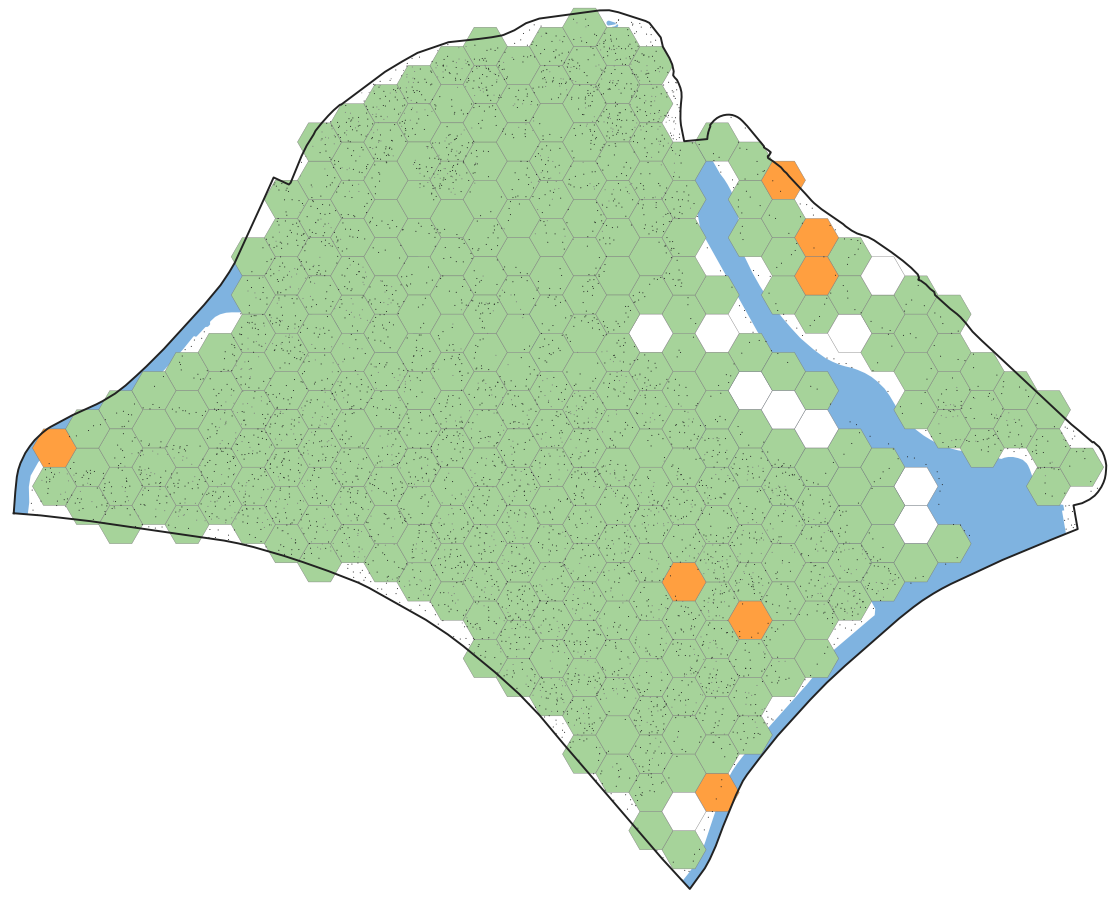
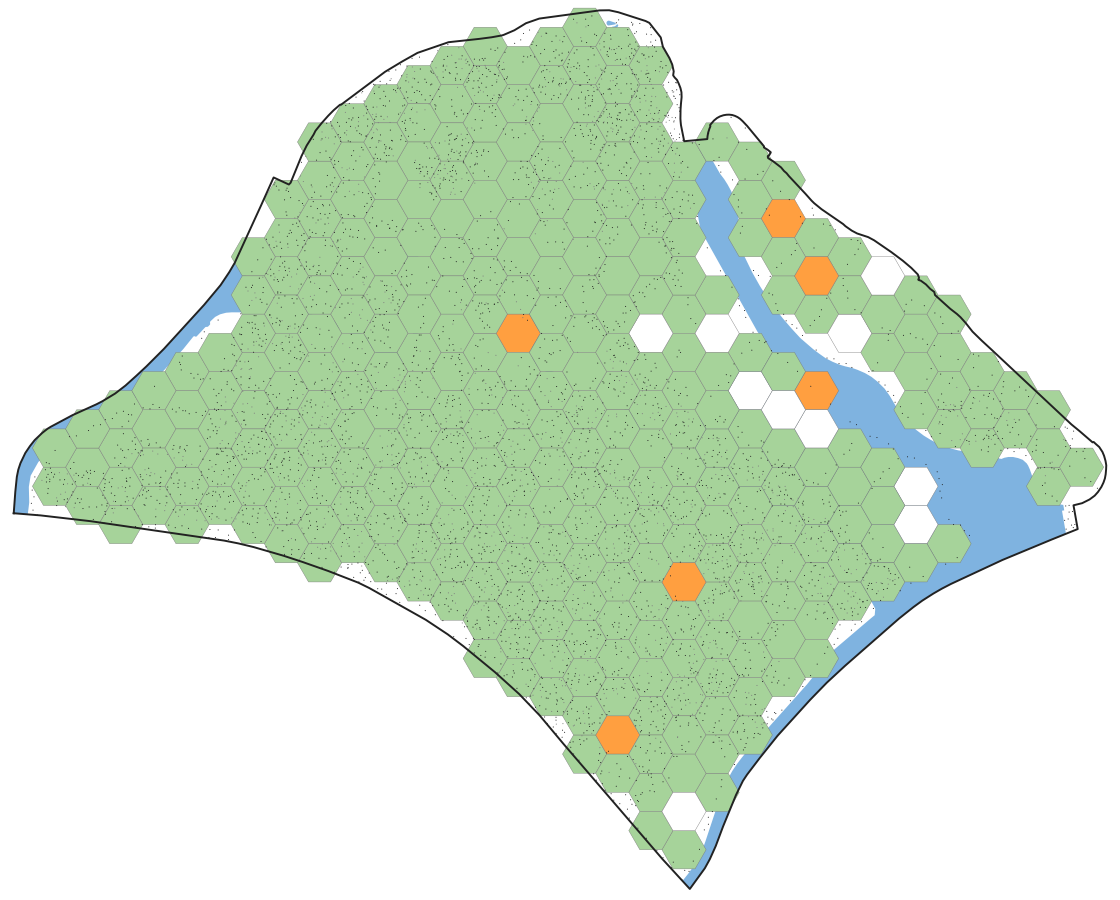
J1: street-light relay poles on the real maps; poles only where needed repair most of the cell grid (item 357)
Claude-Session: https://claude.ai/code/session_01TX4UxcduhhuEtNmkz78BAZ

diff --git a/paper/j1/analysis/urban_nodes.py b/paper/j1/analysis/urban_nodes.py
@@ -18,6 +18,13 @@ Cells: flat-top hexagons, R = 100 m. Per variant: land cells; empty cells (no ma
 split (no usable path inside the cell); adjacent pairs of non-empty cells without a usable gateway link; battery nodes
 with no usable link to a mains node of their cell; components of the cell graph (cells joined by gateway links) and the
 share of non-empty cells in the largest one.
+Street-light relays (chatlog item 357): --poles SPACING adds mains relay nodes on street-light poles every SPACING m along
+the streets, 3 m to the side, on top of the devices above. Two placements are reported with the wall channel: on every
+street ("all"), and only in the cells that need them ("needed": cells that are empty, split inside, or miss a gateway to
+a neighbour in the wall channel without poles). Shadowing is fixed per node pair (a hash of the two node ids), so adding
+poles keeps the draws of the existing pairs.
+The last column counts the mains nodes cut off from the largest group of their own cell, and the share of them standing
+on buildings (wall devices behind a building, as opposed to street nodes and poles).
 Writes FIG_DIR/cells-NAME-<variant>.png (no text) and prints a Markdown table row per variant.
 """
 import argparse, csv, gzip, json, math, os
@@ -31,6 +38,7 @@ ap = argparse.ArgumentParser()
 ap.add_argument("map"); ap.add_argument("name"); ap.add_argument("figs")
 ap.add_argument("--density", type=float, default=816.0); ap.add_argument("--seed", type=int, default=1)
 ap.add_argument("--battery", type=float, default=0.45); ap.add_argument("--wall", type=float, default=15.0)
+ap.add_argument("--poles", type=float, default=0.0)
 A = ap.parse_args()
 rng = np.random.default_rng(A.seed)
 PT, F1, NEXP, SIG, S, R = 10.0, 40.05, 3.5, 7.8, -101.04, 100.0
@@ -92,23 +100,41 @@ water_cells = sum(1 for qq in range(int(x0 / (1.5 * R)) - 2, int(x1 / (1.5 * R))
                   if bound.contains(Point(centre((qq, rr)))) and (qq, rr) not in land_cells)
 
 # links
-tree = cKDTree(cand)
-pairs = np.array(sorted(tree.query_pairs(280.0)))
-d = np.hypot(*(cand[pairs[:, 0]] - cand[pairs[:, 1]]).T)
-sh = rng.normal(0, SIG, len(pairs))
-mean = PT - F1 - 10 * NEXP * np.log10(np.maximum(d, 1)) - sh
-qopen = np.exp(-10 ** ((S - mean) / 10))
-walls = np.zeros(len(pairs))
-cands = np.nonzero(qopen >= 0.5)[0]
-if len(cands) and blds:
-    bt = STRtree(blds)
-    segs = [LineString([cand[pairs[i, 0]], cand[pairs[i, 1]]]) for i in cands]
-    hit = bt.query(segs, predicate="intersects")
-    np.add.at(walls, cands[hit[0]], 1)
-qwall = np.exp(-10 ** ((S - (mean - A.wall * np.minimum(walls, 3))) / 10))
+bt = STRtree(blds) if blds else None
 
 
-def analyse(qv):
+def shadow(a, b):
+    """N(0, SIG) fixed per node pair: splitmix64 of the pair, Box-Muller."""
+    def mix(x):
+        x = (x + np.uint64(0x9E3779B97F4A7C15)) & np.uint64(0xFFFFFFFFFFFFFFFF)
+        x = ((x ^ (x >> np.uint64(30))) * np.uint64(0xBF58476D1CE4E5B9)) & np.uint64(0xFFFFFFFFFFFFFFFF)
+        x = ((x ^ (x >> np.uint64(27))) * np.uint64(0x94D049BB133111EB)) & np.uint64(0xFFFFFFFFFFFFFFFF)
+        return x ^ (x >> np.uint64(31))
+    lo, hi = np.minimum(a, b).astype(np.uint64), np.maximum(a, b).astype(np.uint64)
+    with np.errstate(over="ignore"):
+        h1 = mix(lo * np.uint64(1000003) + hi + np.uint64(A.seed)); h2 = mix(h1)
+    u1 = (h1 >> np.uint64(11)).astype(float) / 2 ** 53; u2 = (h2 >> np.uint64(11)).astype(float) / 2 ** 53
+    return SIG * np.sqrt(-2 * np.log(np.maximum(u1, 1e-12))) * np.cos(2 * np.pi * u2)
+
+
+def links(pts):
+    tree = cKDTree(pts)
+    pairs = np.array(sorted(tree.query_pairs(280.0)))
+    d = np.hypot(*(pts[pairs[:, 0]] - pts[pairs[:, 1]]).T)
+    mean = PT - F1 - 10 * NEXP * np.log10(np.maximum(d, 1)) - shadow(pairs[:, 0], pairs[:, 1])
+    qopen = np.exp(-10 ** ((S - mean) / 10))
+    walls = np.zeros(len(pairs))
+    cands = np.nonzero(qopen >= 0.5)[0]
+    if len(cands) and bt is not None:
+        segs = [LineString([pts[pairs[i, 0]], pts[pairs[i, 1]]]) for i in cands]
+        hit = bt.query(segs, predicate="intersects")
+        np.add.at(walls, cands[hit[0]], 1)
+    qwall = np.exp(-10 ** ((S - (mean - A.wall * np.minimum(walls, 3))) / 10))
+    return pairs, qopen, qwall
+
+
+def analyse(qv, pairs, battery, cell, KIND):
+    N = len(cell)
     ok = qv >= 0.5
     P = pairs[ok]
     mains = ~battery
@@ -130,6 +156,14 @@ def analyse(qv):
         if mains[i]: comps.setdefault(cell[i], set()).add(f(i))
     nonempty = [c for c in comps if c in land_cells]
     split = sum(1 for c in nonempty if len(comps[c]) > 1)
+    # mains nodes outside the largest in-cell group, and of those how many sit on buildings (kind 0)
+    from collections import Counter
+    grp = Counter((cell[i], f(i)) for i in range(N) if mains[i])
+    top = {}
+    for (c, root), k in grp.items():
+        if k > top.get(c, (0, None))[0]: top[c] = (k, root)
+    strand = [i for i in range(N) if mains[i] and f(i) != top[cell[i]][1]]
+    strand_bld = sum(1 for i in strand if KIND[i] == 0)
     empty = len(land_cells) - len(nonempty)
     nb = [(1, 0), (-1, 0), (0, 1), (0, -1), (1, -1), (-1, 1)]
     adj = [(c, (c[0] + a, c[1] + b)) for c in nonempty for a, b in nb if (c[0] + a, c[1] + b) in comps and (c[0] + a, c[1] + b) > c]
@@ -145,22 +179,31 @@ def analyse(qv):
     for c in nonempty: sizes[g(c)] = sizes.get(g(c), 0) + 1
     giant = max(sizes.values()) if sizes else 0
     orph = int(np.sum(battery & ~orphan_ok))
-    return dict(empty=empty, split=split, nogw=nogw, adj=len(adj), comps=len(sizes), giant=giant, nonempty=len(nonempty),
-                orph=orph, gw=gw, comps_map=comps, root={c: g(c) for c in nonempty}, sizes=sizes)
+    bad = {c for c in land_cells if c not in comps} | {c for c in nonempty if len(comps[c]) > 1} | \
+          {c for e in adj if tuple(sorted(e)) not in gw for c in e}
+    return dict(strand=len(strand), strand_bld=strand_bld, mains=int(mains.sum()), empty=empty, split=split, nogw=nogw, adj=len(adj), comps=len(sizes), giant=giant, nonempty=len(nonempty),
+                orph=orph, gw=gw, comps_map=comps, root={c: g(c) for c in nonempty}, sizes=sizes, bad=bad)
 
 
 import matplotlib; matplotlib.use("Agg"); import matplotlib.pyplot as plt
-from matplotlib.patches import Polygon as MPoly, PathPatch
-from matplotlib.path import Path as MPath
+from matplotlib.patches import Polygon as MPoly
 print(f"| Bản đồ | Biến thể | Node (node/km² đất) | Chạy pin | Cell đất | Cell nước | Cell rỗng | Cell đứt bên trong | Cặp kề không có gateway | "
-      f"Thành phần | Cell trong thành phần lớn nhất | Node pin không với tới node điện |")
-print("|---|---|---|---|---|---|---|---|---|---|---|---|")
-for name, qv in (("open", qopen), ("walls", qwall)):
-    r = analyse(qv)
-    print(f"| {A.name} | {name} | {N} ({N / (land.area / 1e6):.0f}) | {battery.mean() * 100:.0f} % | {len(land_cells)} | {water_cells} | "
-          f"{r['empty']} ({r['empty'] / max(len(land_cells), 1) * 100:.0f} %) | {r['split']} ({r['split'] / max(r['nonempty'], 1) * 100:.0f} %) | "
-          f"{r['nogw']} / {r['adj']} ({r['nogw'] / max(r['adj'], 1) * 100:.0f} %) | {r['comps']} | "
-          f"{r['giant'] / max(r['nonempty'], 1) * 100:.1f} % | {r['orph']} ({r['orph'] / max(battery.sum(), 1) * 100:.0f} %) |", flush=True)
+      f"Thành phần | Cell trong thành phần lớn nhất | Node pin không với tới node điện | Node điện lạc khỏi nhóm chính của cell |")
+print("|---|---|---|---|---|---|---|---|---|---|---|---|---|")
+
+
+def report(label, pts, bat, cl, qv, pr, kd, extra=0):
+    r = analyse(qv, pr, bat, cl, kd)
+    n = len(cl)
+    print(f"| {A.name} | {label} | {n} ({n / (land.area / 1e6):.0f}){f', +{extra} cột đèn' if extra else ''} | {bat.mean() * 100:.0f} % | "
+          f"{len(land_cells)} | {water_cells} | {r['empty']} ({r['empty'] / max(len(land_cells), 1) * 100:.0f} %) | "
+          f"{r['split']} ({r['split'] / max(r['nonempty'], 1) * 100:.0f} %) | {r['nogw']} / {r['adj']} ({r['nogw'] / max(r['adj'], 1) * 100:.0f} %) | "
+          f"{r['comps']} | {r['giant'] / max(r['nonempty'], 1) * 100:.1f} % | {r['orph']} ({r['orph'] / max(bat.sum(), 1) * 100:.0f} %) | "
+          f"{r['strand']} ({r['strand'] / max(r['mains'], 1) * 100:.1f} %), {r['strand_bld'] / max(r['strand'], 1) * 100:.0f} % trên nhà |", flush=True)
+    return r
+
+
+def figure(tag, pts, bat, r):
     W_, H_ = x1 - x0, y1 - y0
     fig = plt.figure(figsize=(8, 8 * H_ / W_)); ax = fig.add_axes([0, 0, 1, 1])
     ax.set_xlim(x0 - 50, x1 + 50); ax.set_ylim(y0 - 50, y1 + 50); ax.set_aspect("equal"); ax.axis("off")
@@ -175,6 +218,28 @@ for name, qv in (("open", qopen), ("walls", qwall)):
         else: col = "#a6d39a"                                            # fine
         ax.add_patch(MPoly(h, facecolor=col, edgecolor="#777777", lw=0.2))
     ax.plot(*np.array(bound.exterior.coords).T, c="#222222", lw=1)
-    sub = rng.choice(N, min(N, 6000), replace=False)
-    ax.scatter(cand[sub, 0], cand[sub, 1], s=0.3, c=np.where(battery[sub], "#7f7f7f", "#222222"), lw=0)
-    os.makedirs(A.figs, exist_ok=True); fig.savefig(f"{A.figs}/cells-{A.name}-{name}.png", dpi=140); plt.close(fig)
+    sub = rng.choice(len(pts), min(len(pts), 6000), replace=False)
+    ax.scatter(pts[sub, 0], pts[sub, 1], s=0.3, c=np.where(bat[sub], "#7f7f7f", "#222222"), lw=0)
+    os.makedirs(A.figs, exist_ok=True); fig.savefig(f"{A.figs}/cells-{A.name}-{tag}.png", dpi=140); plt.close(fig)
+
+
+pairs, qopen, qwall = links(cand)
+r0 = report("như hiện tại", cand, battery, cell, qopen, pairs, kind); figure("open", cand, battery, r0)
+r1 = report("có tường", cand, battery, cell, qwall, pairs, kind); figure("walls", cand, battery, r1)
+if A.poles > 0:
+    poles = []
+    for rd in roads:
+        n = int(rd.length // A.poles)
+        for i in range(n):
+            dd = (i + 0.5) * A.poles; p = rd.interpolate(dd); q = rd.interpolate(min(dd + 1, rd.length))
+            dx, dy = q.x - p.x, q.y - p.y; L = math.hypot(dx, dy) or 1
+            poles.append((p.x - dy / L * 3, p.y + dx / L * 3))
+    poles = np.array([pp for pp in poles if pl.contains(Point(*pp))])
+    pcell = [hexcell(x, y) for x, y in poles]
+    for tag, keep in (("needed", np.array([c in r1["bad"] for c in pcell])), ("all", np.ones(len(poles), bool))):
+        pts = np.vstack([cand, poles[keep]]); bat = np.concatenate([battery, np.zeros(keep.sum(), bool)])
+        cl = cell + [c for c, k in zip(pcell, keep) if k]
+        pr, qo, qw = links(pts)
+        label = "có tường, cột đèn ở cell cần" if tag == "needed" else "có tường, cột đèn mọi phố"
+        kd = np.concatenate([kind, np.full(keep.sum(), 2)])
+        rr = report(label, pts, bat, cl, qw, pr, kd, extra=int(keep.sum())); figure(f"walls-poles-{tag}", pts, bat, rr)

diff --git a/paper/j1/figures/INDEX.md b/paper/j1/figures/INDEX.md
@@ -47,3 +47,11 @@ updated: 2026-11-19
 | `cells-namtuliem-walls.png` | Nam Từ Liêm, Hà Nội, node đặt theo nhà và phố (816 node/km² đất), trừ 15 dB mỗi toà nhà mà đường nối cắt qua: cell R = 100 m xanh lá là liên thông, cam là đứt bên trong cell, đỏ là tách khỏi lưới chính, trắng là cell đất không có node cắm điện; nước xanh dương; chấm đen node điện, xám node pin; không chữ | `python3 paper/j1/analysis/urban_nodes.py paper/j1/maps/namtuliem namtuliem paper/j1/figures` | --density 816, --battery 0.45, --wall 15, seed 1 | 2026-11-19 | sau 8484371 |
 | `cells-hoangmai-open.png` | Hoàng Mai, Hà Nội, node đặt theo nhà và phố (816 node/km² đất), kênh G2G như mô phỏng hiện tại: cell R = 100 m xanh lá là liên thông, cam là đứt bên trong cell, đỏ là tách khỏi lưới chính, trắng là cell đất không có node cắm điện; nước xanh dương; chấm đen node điện, xám node pin; không chữ | `python3 paper/j1/analysis/urban_nodes.py paper/j1/maps/hoangmai hoangmai paper/j1/figures` | --density 816, --battery 0.45, --wall 15, seed 1 | 2026-11-19 | sau 8484371 |
 | `cells-hoangmai-walls.png` | Hoàng Mai, Hà Nội, node đặt theo nhà và phố (816 node/km² đất), trừ 15 dB mỗi toà nhà mà đường nối cắt qua: cell R = 100 m xanh lá là liên thông, cam là đứt bên trong cell, đỏ là tách khỏi lưới chính, trắng là cell đất không có node cắm điện; nước xanh dương; chấm đen node điện, xám node pin; không chữ | `python3 paper/j1/analysis/urban_nodes.py paper/j1/maps/hoangmai hoangmai paper/j1/figures` | --density 816, --battery 0.45, --wall 15, seed 1 | 2026-11-19 | sau 8484371 |
+| `cells-sg-punggol-walls-poles-needed.png` | Punggol, Singapore, kênh có tường, thêm node chuyển tiếp trên cột đèn mỗi 35 m chỉ ở các cell cần (rỗng, đứt, thiếu gateway); màu cell như các hình cells-* khác; không chữ | `python3 paper/j1/analysis/urban_nodes.py paper/j1/maps/sg-punggol sg-punggol paper/j1/figures --poles 35` | --density 816, --battery 0.45, --wall 15, --poles 35, seed 1 | 2026-11-19 | sau df00cd3 |
+| `cells-sg-punggol-walls-poles-all.png` | Punggol, Singapore, kênh có tường, thêm node chuyển tiếp trên cột đèn mỗi 35 m trên mọi phố; màu cell như các hình cells-* khác; không chữ | `python3 paper/j1/analysis/urban_nodes.py paper/j1/maps/sg-punggol sg-punggol paper/j1/figures --poles 35` | --density 816, --battery 0.45, --wall 15, --poles 35, seed 1 | 2026-11-19 | sau df00cd3 |
+| `cells-sg-downtown-walls-poles-needed.png` | Downtown Core, Singapore, kênh có tường, thêm node chuyển tiếp trên cột đèn mỗi 35 m chỉ ở các cell cần (rỗng, đứt, thiếu gateway); màu cell như các hình cells-* khác; không chữ | `python3 paper/j1/analysis/urban_nodes.py paper/j1/maps/sg-downtown sg-downtown paper/j1/figures --poles 35` | --density 816, --battery 0.45, --wall 15, --poles 35, seed 1 | 2026-11-19 | sau df00cd3 |
+| `cells-sg-downtown-walls-poles-all.png` | Downtown Core, Singapore, kênh có tường, thêm node chuyển tiếp trên cột đèn mỗi 35 m trên mọi phố; màu cell như các hình cells-* khác; không chữ | `python3 paper/j1/analysis/urban_nodes.py paper/j1/maps/sg-downtown sg-downtown paper/j1/figures --poles 35` | --density 816, --battery 0.45, --wall 15, --poles 35, seed 1 | 2026-11-19 | sau df00cd3 |
+| `cells-namtuliem-walls-poles-needed.png` | Nam Từ Liêm, Hà Nội, kênh có tường, thêm node chuyển tiếp trên cột đèn mỗi 35 m chỉ ở các cell cần (rỗng, đứt, thiếu gateway); màu cell như các hình cells-* khác; không chữ | `python3 paper/j1/analysis/urban_nodes.py paper/j1/maps/namtuliem namtuliem paper/j1/figures --poles 35` | --density 816, --battery 0.45, --wall 15, --poles 35, seed 1 | 2026-11-19 | sau df00cd3 |
+| `cells-namtuliem-walls-poles-all.png` | Nam Từ Liêm, Hà Nội, kênh có tường, thêm node chuyển tiếp trên cột đèn mỗi 35 m trên mọi phố; màu cell như các hình cells-* khác; không chữ | `python3 paper/j1/analysis/urban_nodes.py paper/j1/maps/namtuliem namtuliem paper/j1/figures --poles 35` | --density 816, --battery 0.45, --wall 15, --poles 35, seed 1 | 2026-11-19 | sau df00cd3 |
+| `cells-hoangmai-walls-poles-needed.png` | Hoàng Mai, Hà Nội, kênh có tường, thêm node chuyển tiếp trên cột đèn mỗi 35 m chỉ ở các cell cần (rỗng, đứt, thiếu gateway); màu cell như các hình cells-* khác; không chữ | `python3 paper/j1/analysis/urban_nodes.py paper/j1/maps/hoangmai hoangmai paper/j1/figures --poles 35` | --density 816, --battery 0.45, --wall 15, --poles 35, seed 1 | 2026-11-19 | sau df00cd3 |
+| `cells-hoangmai-walls-poles-all.png` | Hoàng Mai, Hà Nội, kênh có tường, thêm node chuyển tiếp trên cột đèn mỗi 35 m trên mọi phố; màu cell như các hình cells-* khác; không chữ | `python3 paper/j1/analysis/urban_nodes.py paper/j1/maps/hoangmai hoangmai paper/j1/figures --poles 35` | --density 816, --battery 0.45, --wall 15, --poles 35, seed 1 | 2026-11-19 | sau df00cd3 |

diff --git a/paper/j1/CONTEXT-vi.md b/paper/j1/CONTEXT-vi.md
@@ -596,3 +596,35 @@ Nhận xét:
 - Hệ quả: giả định "mọi node của cell tới được CL bên trong cell" không còn giữ ở khu dày đặc khi tính tường. Hướng xử lý:
   cho phép đường trong cell mượn cell kề, giảm R, hoặc thêm node chuyển tiếp ở cột đèn dọc phố. Mô hình 15 dB mỗi toà là thô,
   cần hiệu chỉnh ở K1c.
+
+## 21. Thêm node chuyển tiếp trên cột đèn (2026-11-19, mục 357)
+
+Thêm node cắm điện trên cột đèn mỗi 35 m dọc phố, cách mép đường 3 m, chồng lên các thiết bị đã có; hai cách đặt: chỉ ở các
+cell cần (rỗng, đứt bên trong, hoặc thiếu gateway với cell kề, xét ở kênh có tường) và trên mọi phố. Che khuất cố định theo
+từng cặp node để so cặp; số không cột đèn vì vậy lệch nhẹ so với mục 20 (cùng mô hình, khác lần bốc). Log
+`logs/2026-11-19_1000-urban-nodes/<bản đồ>-poles.md`, hình `paper/j1/figures/cells-*-walls-poles-*.png`.
+
+| Bản đồ | Kênh có tường | Cột đèn thêm | Cell đứt bên trong | Cặp kề không có gateway | Node pin không với tới node điện | Node điện lạc khỏi nhóm chính của cell (phần trên nhà) |
+|---|---|---|---|---|---|---|
+| Punggol | không cột đèn | 0 | 31 % | 5 % | 5 % | 5,7 % (73 %) |
+| Punggol | cột ở cell cần | +1 876 (+27 %) | 15 % | 1 % | 4 % | 2,3 % (68 %) |
+| Punggol | cột mọi phố | +4 995 (+71 %) | 18 % | 1 % | 3 % | 1,8 % (68 %) |
+| Downtown Core | không cột đèn | 0 | 45 % | 4 % | 7 % | 8,8 % (62 %) |
+| Downtown Core | cột ở cell cần | +1 476 (+36 %) | 29 % | 2 % | 4 % | 3,3 % (53 %) |
+| Downtown Core | cột mọi phố | +3 488 (+85 %) | 29 % | 2 % | 4 % | 2,6 % (49 %) |
+| Nam Từ Liêm | không cột đèn | 0 | 11 % | 3 % | 3 % | 2,0 % (77 %) |
+| Nam Từ Liêm | cột ở cell cần | +2 319 (+9 %) | 7 % | 1 % | 2 % | 1,1 % (80 %) |
+| Nam Từ Liêm | cột mọi phố | +15 348 (+61 %) | 6 % | 1 % | 2 % | 0,7 % (80 %) |
+| Hoàng Mai | không cột đèn | 0 | 4 % | 2 % | 1 % | 0,3 % (57 %) |
+| Hoàng Mai | cột ở cell cần | +1 062 (+4 %) | 1 % | 1 % | 1 % | 0,1 % (55 %) |
+| Hoàng Mai | cột mọi phố | +18 639 (+69 %) | 2 % | 1 % | 1 % | 0,1 % (70 %) |
+
+Nhận xét:
+- Đặt cột đèn chỉ ở cell cần cho kết quả gần bằng đặt mọi phố, với số node thêm ít hơn nhiều (4–36 % thay vì 61–85 %).
+- Cột đèn sửa được phần khung: cặp cell kề thiếu gateway giảm từ 2–5 % xuống 1–2 %, node điện bị lạc giảm 2–3 lần.
+- Phần còn đứt chủ yếu là vài node gắn trên nhà, nằm sau toà nhà so với phố (49–80 % số node lạc là node trên nhà); trung bình
+  khoảng 3 node lạc mỗi cell đứt. Các node này nên coi là node lá (chỉ nhận, không cần chuyển tiếp) hoặc nối qua cell kề; cell
+  "đứt" theo định nghĩa chặt (một node lạc cũng tính) vì vậy là cách đếm bi quan.
+- Đặt cột ở mọi phố đôi khi làm tăng số cell đứt (Punggol 15 % lên 18 %): cột trên lối đi bộ trong khu nhà cũng có thể bị lạc.
+- Đề xuất cho mô hình: thêm lớp node chuyển tiếp trên cột đèn, đặt theo nhu cầu ở pha 0; node trên nhà không với tới nhóm chính
+  của cell thì làm node lá.

diff --git a/logs/2026-11-19_1000-urban-nodes/namtuliem-poles.md b/logs/2026-11-19_1000-urban-nodes/namtuliem-poles.md
@@ -1,0 +1,21 @@
+# namtuliem-poles
+
+- Bắt đầu: 2026-11-19 14:15:32, chạy 144 s, mã thoát 0
+- Thư mục: `/home/user/wsn-uav`
+
+**Lệnh**
+
+```bash
+python3 paper/j1/analysis/urban_nodes.py paper/j1/maps/namtuliem namtuliem paper/j1/figures --poles 35
+```
+
+**Kết quả**
+
+```text
+| Bản đồ | Biến thể | Node (node/km² đất) | Chạy pin | Cell đất | Cell nước | Cell rỗng | Cell đứt bên trong | Cặp kề không có gateway | Thành phần | Cell trong thành phần lớn nhất | Node pin không với tới node điện | Node điện lạc khỏi nhóm chính của cell |
+|---|---|---|---|---|---|---|---|---|---|---|---|---|
+| namtuliem | như hiện tại | 25081 (816) | 17 % | 1199 | 39 | 59 (5 %) | 13 (1 %) | 69 / 3198 (2 %) | 2 | 99.9 % | 3 (0 %) | 20 (0.1 %), 5 % trên nhà |
+| namtuliem | có tường | 25081 (816) | 17 % | 1199 | 39 | 59 (5 %) | 122 (11 %) | 86 / 3198 (3 %) | 2 | 99.9 % | 111 (3 %) | 407 (2.0 %), 77 % trên nhà |
+| namtuliem | có tường, cột đèn ở cell cần | 27400 (891), +2319 cột đèn | 16 % | 1199 | 39 | 56 (5 %) | 75 (7 %) | 42 / 3212 (1 %) | 2 | 99.9 % | 87 (2 %) | 254 (1.1 %), 80 % trên nhà |
+| namtuliem | có tường, cột đèn mọi phố | 40429 (1315), +15348 cột đèn | 11 % | 1199 | 39 | 56 (5 %) | 71 (6 %) | 38 / 3222 (1 %) | 1 | 100.0 % | 75 (2 %) | 245 (0.7 %), 80 % trên nhà |
+```

diff --git a/logs/2026-11-19_1000-urban-nodes/sg-punggol-poles.md b/logs/2026-11-19_1000-urban-nodes/sg-punggol-poles.md
@@ -1,0 +1,21 @@
+# sg-punggol-poles
+
+- Bắt đầu: 2026-11-19 14:14:40, chạy 33 s, mã thoát 0
+- Thư mục: `/home/user/wsn-uav`
+
+**Lệnh**
+
+```bash
+python3 paper/j1/analysis/urban_nodes.py paper/j1/maps/sg-punggol sg-punggol paper/j1/figures --poles 35
+```
+
+**Kết quả**
+
+```text
+| Bản đồ | Biến thể | Node (node/km² đất) | Chạy pin | Cell đất | Cell nước | Cell rỗng | Cell đứt bên trong | Cặp kề không có gateway | Thành phần | Cell trong thành phần lớn nhất | Node pin không với tới node điện | Node điện lạc khỏi nhóm chính của cell |
+|---|---|---|---|---|---|---|---|---|---|---|---|---|
+| sg-punggol | như hiện tại | 7058 (816) | 22 % | 328 | 32 | 10 (3 %) | 6 (2 %) | 22 / 902 (2 %) | 1 | 100.0 % | 0 (0 %) | 14 (0.3 %), 7 % trên nhà |
+| sg-punggol | có tường | 7058 (816) | 22 % | 328 | 32 | 10 (3 %) | 98 (31 %) | 45 / 902 (5 %) | 1 | 100.0 % | 80 (5 %) | 312 (5.7 %), 73 % trên nhà |
+| sg-punggol | có tường, cột đèn ở cell cần | 8934 (1033), +1876 cột đèn | 17 % | 328 | 32 | 9 (3 %) | 47 (15 %) | 11 / 908 (1 %) | 1 | 100.0 % | 58 (4 %) | 167 (2.3 %), 68 % trên nhà |
+| sg-punggol | có tường, cột đèn mọi phố | 12053 (1393), +4995 cột đèn | 13 % | 328 | 32 | 9 (3 %) | 59 (18 %) | 10 / 908 (1 %) | 1 | 100.0 % | 44 (3 %) | 185 (1.8 %), 68 % trên nhà |
+```

diff --git a/logs/2026-11-19_1000-urban-nodes/sg-downtown-poles.md b/logs/2026-11-19_1000-urban-nodes/sg-downtown-poles.md
@@ -1,0 +1,21 @@
+# sg-downtown-poles
+
+- Bắt đầu: 2026-11-19 14:15:13, chạy 20 s, mã thoát 0
+- Thư mục: `/home/user/wsn-uav`
+
+**Lệnh**
+
+```bash
+python3 paper/j1/analysis/urban_nodes.py paper/j1/maps/sg-downtown sg-downtown paper/j1/figures --poles 35
+```
+
+**Kết quả**
+
+```text
+| Bản đồ | Biến thể | Node (node/km² đất) | Chạy pin | Cell đất | Cell nước | Cell rỗng | Cell đứt bên trong | Cặp kề không có gateway | Thành phần | Cell trong thành phần lớn nhất | Node pin không với tới node điện | Node điện lạc khỏi nhóm chính của cell |
+|---|---|---|---|---|---|---|---|---|---|---|---|---|
+| sg-downtown | như hiện tại | 4094 (816) | 18 % | 192 | 3 | 11 (6 %) | 0 (0 %) | 4 / 491 (1 %) | 1 | 100.0 % | 1 (0 %) | 2 (0.1 %), 0 % trên nhà |
+| sg-downtown | có tường | 4094 (816) | 18 % | 192 | 3 | 11 (6 %) | 81 (45 %) | 21 / 491 (4 %) | 1 | 100.0 % | 51 (7 %) | 297 (8.8 %), 62 % trên nhà |
+| sg-downtown | có tường, cột đèn ở cell cần | 5570 (1110), +1476 cột đèn | 13 % | 192 | 3 | 11 (6 %) | 52 (29 %) | 9 / 491 (2 %) | 1 | 100.0 % | 28 (4 %) | 161 (3.3 %), 53 % trên nhà |
+| sg-downtown | có tường, cột đèn mọi phố | 7582 (1511), +3488 cột đèn | 9 % | 192 | 3 | 11 (6 %) | 52 (29 %) | 9 / 493 (2 %) | 1 | 100.0 % | 26 (4 %) | 180 (2.6 %), 49 % trên nhà |
+```

diff --git a/logs/2026-11-19_1000-urban-nodes/hoangmai-poles.md b/logs/2026-11-19_1000-urban-nodes/hoangmai-poles.md
@@ -1,0 +1,21 @@
+# hoangmai-poles
+
+- Bắt đầu: 2026-11-19 14:17:56, chạy 104 s, mã thoát 0
+- Thư mục: `/home/user/wsn-uav`
+
+**Lệnh**
+
+```bash
+python3 paper/j1/analysis/urban_nodes.py paper/j1/maps/hoangmai hoangmai paper/j1/figures --poles 35
+```
+
+**Kết quả**
+
+```text
+| Bản đồ | Biến thể | Node (node/km² đất) | Chạy pin | Cell đất | Cell nước | Cell rỗng | Cell đứt bên trong | Cặp kề không có gateway | Thành phần | Cell trong thành phần lớn nhất | Node pin không với tới node điện | Node điện lạc khỏi nhóm chính của cell |
+|---|---|---|---|---|---|---|---|---|---|---|---|---|
+| hoangmai | như hiện tại | 26929 (816) | 11 % | 1285 | 267 | 32 (2 %) | 5 (0 %) | 55 / 3572 (2 %) | 1 | 100.0 % | 8 (0 %) | 18 (0.1 %), 11 % trên nhà |
+| hoangmai | có tường | 26929 (816) | 11 % | 1285 | 267 | 32 (2 %) | 44 (4 %) | 67 / 3572 (2 %) | 1 | 100.0 % | 32 (1 %) | 65 (0.3 %), 57 % trên nhà |
+| hoangmai | có tường, cột đèn ở cell cần | 27991 (848), +1062 cột đèn | 10 % | 1285 | 267 | 31 (2 %) | 18 (1 %) | 24 / 3577 (1 %) | 1 | 100.0 % | 29 (1 %) | 29 (0.1 %), 55 % trên nhà |
+| hoangmai | có tường, cột đèn mọi phố | 45568 (1381), +18639 cột đèn | 6 % | 1285 | 267 | 31 (2 %) | 23 (2 %) | 24 / 3587 (1 %) | 1 | 100.0 % | 21 (1 %) | 30 (0.1 %), 70 % trên nhà |
+```

diff --git a/logs/2026-11-19_1000-urban-nodes/README.md b/logs/2026-11-19_1000-urban-nodes/README.md
@@ -15,3 +15,7 @@ Kết quả: bảng ở `paper/j1/CONTEXT-vi.md` mục 20; hình `paper/j1/figur
 
 Dang dở: OSM ở Hà Nội thiếu nhiều nhà thấp tầng nên biến thể có tường đánh giá thấp mức đứt ở Hà Nội; một seed; mô hình
 xuyên tường là bước đầu của K1c, chưa hiệu chỉnh.
+
+**Bổ sung (mục 357):** thêm node chuyển tiếp trên cột đèn mỗi 35 m (`--poles 35`), hai cách đặt: chỉ ở cell cần và trên mọi
+phố; log `<bản đồ>-poles.md`. Che khuất giờ cố định theo từng cặp node (băm mã hai node), nên số của biến thể không cột đèn
+lệch nhẹ so với lần chạy đầu (cùng mô hình, khác lần bốc). Bảng ở `paper/j1/CONTEXT-vi.md` mục 21.

diff --git a/docs/chatlog/2026-11.md b/docs/chatlog/2026-11.md
@@ -892,3 +892,9 @@ thêm một vài thành phố hiện đại nước ngoài nữa đi
 ```text
 được rồi, bạn thử chọn một vài bản đồ sắp xếp các node IoT vào những chỗ hợp lý xem lưới cell liên thông và hổng như nào
 ```
+
+*357. 2026-11-19 · bối cảnh · thêm node chuyển tiếp trên cột đèn rồi chạy lại kiểm lưới cell*
+
+```text
+thêm node chuyển tiếp trên cột đèn rồi chạy lại xem
+```
